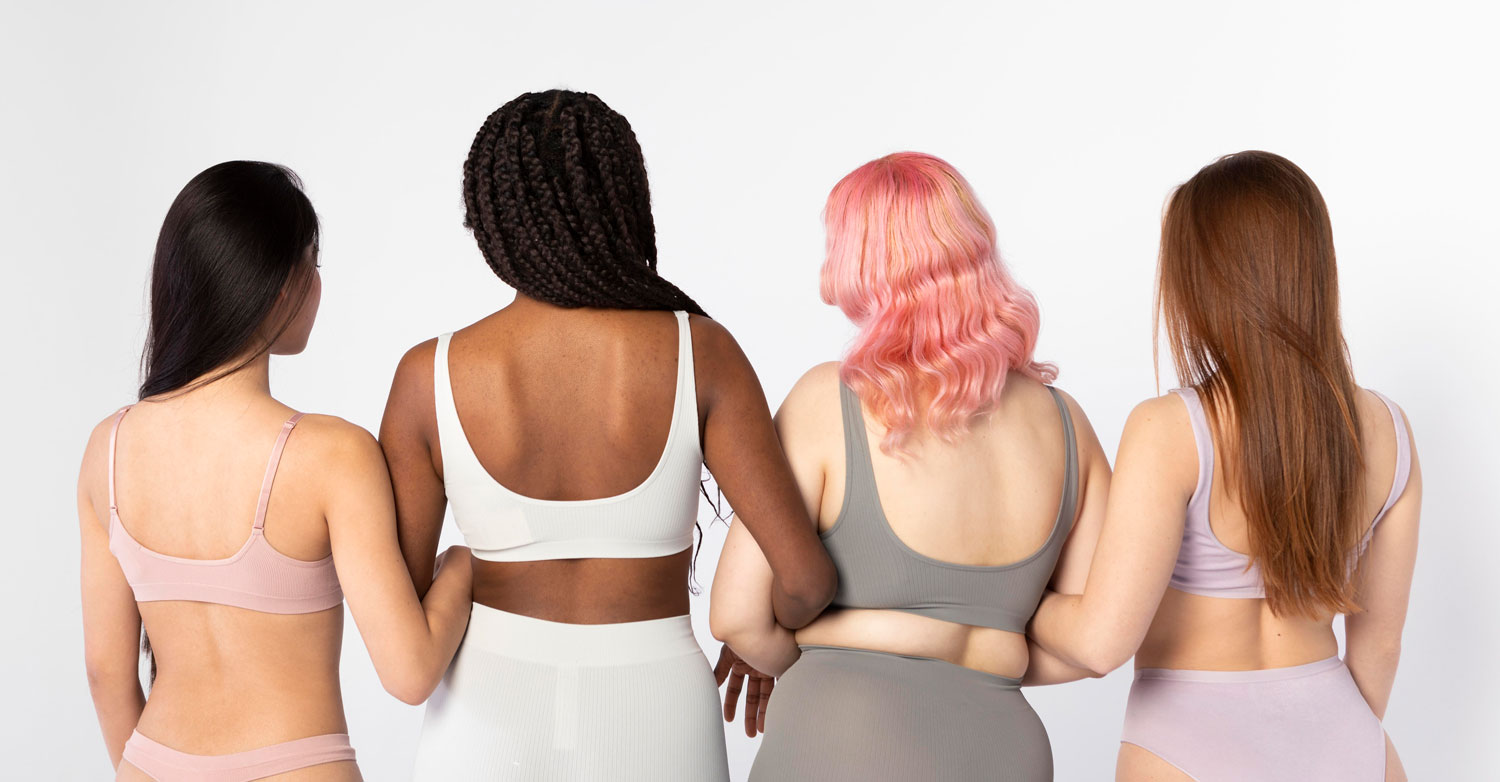
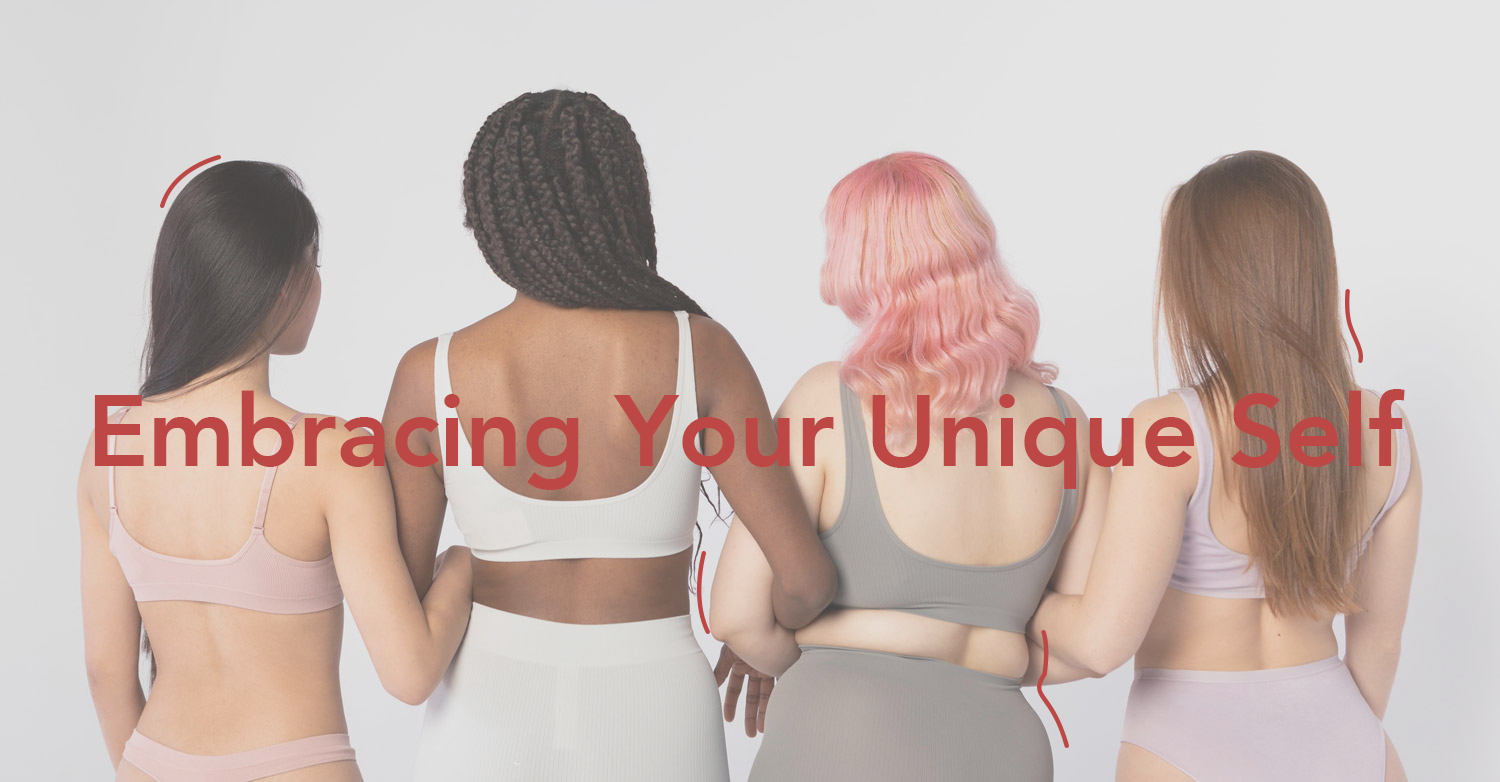
project06

Changed region(s): [[0.0613, 0.0921, 0.9507, 1.0], [0.0613, 0.7366, 0.1227, 0.9514]]

diff --git a/project/project06/explore.html b/project/project06/explore.html
@@ -1,0 +1,36 @@
+<!DOCTYPE html>
+<html lang="en">
+<head>
+    <meta charset="UTF-8">
+    <meta http-equiv="X-UA-Compatible" content="IE=edge">
+    <meta name="viewport" content="width=device-width, initial-scale=1.0">
+    <title>Embracing Your Unique Self</title>
+    <link rel="stylesheet" href="../project06/fat-style.css">
+</head>
+<body>
+    <nav>
+        <div><a href="discover.html">Discover</a></div>
+        <div><a href="explore.html">Explore</a></div>
+        <div><a href="unleash.html">Unleash</a></div>
+    </nav>
+
+    <main>
+        <h1 id="Reality">The Reality of Beauty and Health</h1>
+        <img src="../images/resize-pexels-shvets-production-6975486.jpg" alt="reality">
+        <p>1Lorem, ipsum dolor sit amet consectetur adipisicing elit. Sint laudantium sapiente dolor quia culpa quaerat reiciendis. Necessitatibus quasi soluta libero consectetur quas temporibus eos deserunt quos. Consequuntur in sint ipsam! Lorem ipsum dolor sit amet consectetur, adipisicing elit. Ad nesciunt dolor eum tenetur culpa eveniet illum libero? Architecto similique, dolore a, temporibus molestias officia quod quos magni velit quis inventore. Lorem ipsum dolor sit amet consectetur adipisicing elit. Magni aperiam, beatae, at totam, in eaque dicta facilis fugit reiciendis non cum similique sed tempore ex cupiditate ad suscipit? Nihil, voluptatum! Lorem ipsum dolor sit amet consectetur adipisicing elit. Sunt fuga praesentium, vero nobis minima asperiores temporibus dolores soluta impedit incidunt culpa? Ipsum praesentium saepe dolor, in expedita placeat aspernatur dolorum. Lorem ipsum, dolor sit amet consectetur adipisicing elit. Sint vitae ut eaque facilis consequatur debitis illum repellendus nostrum rem corrupti culpa fugit fugiat saepe minus iure deleniti, officia vel consequuntur. Lorem ipsum dolor sit amet consectetur adipisicing elit. Sequi porro asperiores ipsum saepe deserunt, quis hic ullam tenetur. Voluptatibus dignissimos minus et dicta adipisci esse expedita aliquam deleniti iusto explicabo? Lorem ipsum dolor sit amet consectetur adipisicing elit. Reprehenderit voluptates saepe odit excepturi et quaerat itaque quisquam, culpa blanditiis nulla perspiciatis quos assumenda vero porro repudiandae qui, eos deserunt! Officia.</p>
+
+        <h1 id="Embracing">Embracing Your Flaws and Imperfections</h1>
+        <img src="../images/resize-pexels-armin-rimoldi-5304810.jpg" alt="imperfections">
+        <p>2Lorem ipsum dolor, sit amet consectetur adipisicing elit. Aspernatur, perferendis dicta ipsam commodi iusto, vero quia facere ex neque esse rerum maiores adipisci impedit odio autem corrupti, ratione eaque vitae! Lorem, ipsum dolor sit amet consectetur adipisicing elit. Dolorem expedita ipsam, reprehenderit doloribus nisi fugiat aspernatur eligendi placeat reiciendis vitae provident modi aperiam facere ex. Aperiam dolor ut quo aliquam. Lorem, ipsum dolor sit amet consectetur adipisicing elit. Ea consequuntur repellat perferendis explicabo incidunt voluptates ratione aliquam eveniet autem necessitatibus fuga unde laborum possimus, eaque neque culpa eius ad vero? Lorem ipsum dolor sit amet, consectetur adipisicing elit. Corrupti, commodi. Modi, fuga magnam ullam tempora deserunt nisi laboriosam maiores porro assumenda deleniti! Ad, facilis cumque! Iusto commodi consequuntur voluptate aliquam. Lorem ipsum dolor sit amet, consectetur adipisicing elit. Deleniti, et ratione modi voluptatum nisi alias perferendis recusandae accusantium natus quidem enim magnam eligendi quis suscipit, dolores excepturi, cupiditate exercitationem inventore? Lorem ipsum dolor sit, amet consectetur adipisicing elit. Eius excepturi iure, assumenda id voluptas distinctio aspernatur natus rem, nesciunt dolore quos esse voluptates corporis sit nobis atque provident quo! Ratione. Lorem ipsum, dolor sit amet consectetur adipisicing elit. Deleniti nobis vitae, error porro laudantium consequatur! Possimus architecto explicabo voluptate exercitationem a, expedita, ipsam, numquam quia maxime alias dicta. Earum, dignissimos.</p>
+
+        <h1 id="Redefining">Redefining beauty on your own terms</h1>
+        <img src="../images/resize-medium-shot-smiley-women-posing-together.jpg" alt="redefine">
+        <p>3Lorem ipsum dolor sit amet consectetur adipisicing elit. Mollitia cupiditate id ratione animi nostrum aspernatur? Iusto, eum dolorum veritatis qui praesentium ad voluptatibus dolore dolores quam quasi cum consequatur libero? Lorem ipsum dolor sit, amet consectetur adipisicing elit. Facere necessitatibus ab ducimus est esse, officia cumque obcaecati odit quam pariatur aperiam unde commodi quod amet nostrum, incidunt, vitae praesentium. Provident. Lorem ipsum dolor sit amet consectetur adipisicing elit. Quia officiis, iure nisi aspernatur beatae laborum fuga mollitia dignissimos modi! Vitae necessitatibus, quo praesentium dolorem ex enim quibusdam labore commodi illum! Lorem ipsum dolor sit amet consectetur adipisicing elit. Dolorem nam nihil similique deleniti labore recusandae delectus, soluta iusto ipsa fugit pariatur quaerat, ratione non numquam earum commodi assumenda illo. Vel? Lorem ipsum, dolor sit amet consectetur adipisicing elit. Deleniti ipsam aperiam laboriosam commodi explicabo illo harum odio perferendis numquam laudantium voluptatum, deserunt beatae, fugit debitis minima adipisci unde rem? At? Lorem ipsum dolor sit amet consectetur, adipisicing elit. Excepturi officia porro minus, temporibus nostrum tempore accusantium. Accusantium, veniam architecto minima, est nostrum iusto sit, distinctio tempore atque doloremque eum fugiat.</p>
+    </main>
+
+    <footer>
+        <hr>
+        &copy;2023
+    </footer>
+</body>
+</html>

diff --git a/project/project06/discover.html b/project/project06/discover.html
@@ -1,0 +1,82 @@
+<!DOCTYPE html>
+<html lang="en">
+<head>
+    <meta charset="UTF-8">
+    <meta http-equiv="X-UA-Compatible" content="IE=edge">
+    <meta name="viewport" content="width=device-width, initial-scale=1.0">
+    <title>Embracing Your Unique Self</title>
+    <link rel="stylesheet" href="../project06/fat-style.css">
+    <style>
+        .banner {
+            max-width:100%;
+        }
+        .intro {
+            display: flex;
+            margin: 0 20px;
+            font-size: 1.1em;
+            justify-content: center;
+        }
+        .topics {
+            display:flex ;
+        }
+        div img {
+            max-width: 100%;
+        }
+        h2 {
+            font-size: 1.2em;
+        }
+        a {
+            text-decoration: none;
+        }
+        @media only screen and (max-width: 800px) {
+            nav a {
+                width: 100%;
+                display: block;
+            }
+        }
+    </style>
+</head>
+<body>
+    <nav>
+        <div><a href="discover.html">Discover</a></div>
+        <div><a href="explore.html">Explore</a></div>
+        <div><a href="unleash.html">Unleash</a></div>
+    </nav>
+
+    <header>
+        <img src="../images/resize-different-women-showing-different-types-beauty.jpg" alt="different-women-showing-different-types-beauty" class="banner">
+    </header>
+
+    <main>
+        
+        <div class="intro">
+            <p>Are you feeling the pressure to conform to social norms and expectations? Embracing Your Unique Self can help you celebrate your authenticity and find your true purpose in life. Explore our website for resources, tips, and inspiration to break free from societal pressures and embrace your uniqueness. Join us in the movement towards self-discovery and self-love. Embrace Your Unique Self today.</p>
+        </div>
+
+        <div class="topics">
+            <div class="no1">
+                <a href="explore.html#Reality"><h2>The Reality of Beauty and Health</h2></a>
+                <a href="explore.html#Reality"><img src="../images/resize-pexels-shvets-production-6975474.jpg" alt="weight"></a>
+                <a href="explore.html#Reality"><p>Beauty and health are integral and essential aspects of our lives, and the pressure to conform to societal standards can be overwhelming. However, the reality of beauty and health is about finding a balance that works for you, which requires prioritizing sustainable and realistic practices that embrace your unique beauty. By doing so, you can cultivate a positive and healthy relationship with your body, which will allow you to enjoy a fulfilling life. If you're ready to explore the reality of beauty and health, we invite you to click here to learn more about this important and relevant topic.</p></a>
+            </div>
+
+            <div class="no2">
+                <a href="explore.html#Embracing"><h2>Embracing Your Flaws and Imperfections</h2></a>
+                <a href="explore.html#Embracing"><img src="../images/resize-three-women-posing-together-body-shapers.jpg" alt="embracing"></a>
+                <a href="explore.html#Embracing"><p>Are you tired of striving for perfection and feeling like you don't measure up? Embracing Your Flaws and Imperfections is about celebrating your unique qualities and accepting yourself just as you are. By doing so, you can cultivate self-love, self-acceptance, and self-confidence. Click here to explore our website for resources, tips, and inspiration to help you on your journey towards embracing your flaws and imperfections. Join us in the movement towards a more positive and empowering relationship with ourselves. Embrace Your Flaws and Imperfections today!</p></a>
+            </div>
+            
+            <div class="no3">
+                <a href="explore.html#Redefining"><h2>Redefining beauty on your own terms</h2></a>
+                <a href="explore.html#Redefining"><img src="../images/resize-three-women-holding-placards-with-body-positivity-statements.jpg" alt="redefine"></a>
+                <a href="explore.html#Redefining"><p>Are you tired of feeling like you don't measure up to society's beauty standards? Redefining Beauty on Your Own Terms is about embracing your unique qualities and defining beauty for yourself. This perspective will help you to create a more positive and empowering relationship with yourself. Click here to explore our website for resources, tips, and inspiration to help you on your journey towards a more diverse and inclusive definition of beauty. Join us in the movement towards a more positive and empowering relationship with ourselves. Redefine Beauty on Your Own Terms today!</p></a>
+            </div>
+        </div>
+    </main>
+
+    <footer>
+        <hr>
+        &copy;2023
+    </footer>
+</body>
+</html>

diff --git a/project/project06/unleash.html b/project/project06/unleash.html
@@ -1,0 +1,61 @@
+<!DOCTYPE html>
+<html lang="en">
+<head>
+    <meta charset="UTF-8">
+    <meta http-equiv="X-UA-Compatible" content="IE=edge">
+    <meta name="viewport" content="width=device-width, initial-scale=1.0">
+    <title>Embracing Your Unique Self</title>
+    <link rel="stylesheet" href="../project06/fat-style.css">
+</head>
+<body>
+    <nav>
+        <div><a href="discover.html">Discover</a></div>
+        <div><a href="explore.html">Explore</a></div>
+        <div><a href="unleash.html">Unleash</a></div>
+    </nav>
+
+    <main>
+        <h1>Don't Define by Labels</h1>
+        <p>introduction about the video "Don't Define by Labels". Lorem ipsum dolor sit amet, consectetur adipisicing elit. Dolorem architecto doloribus fugiat, vero ipsa dignissimos consequuntur voluptate iusto quod voluptas debitis laboriosam! Expedita numquam eum nemo reiciendis fugit voluptatibus eligendi! Lorem, ipsum dolor sit amet consectetur adipisicing elit. Id molestiae debitis fugit dignissimos, incidunt placeat perspiciatis possimus deleniti numquam animi. Nesciunt odit non tenetur molestiae est ad vel inventore magnam? Lorem ipsum dolor sit amet consectetur adipisicing elit. Iusto, ut delectus? Consectetur, dolorum harum? Labore odio quam repudiandae quis. Tempora reprehenderit ex quia repellendus, harum atque! Omnis vero dolor laudantium.</p>
+        <video width="820" autoplay>
+            <source src="../images/productionID_5041705.mp4" type="video/mp4">
+        </video>
+
+        <form action="https://formspree.io/f/mqkopqnl" method="post">
+            <label for="name">Name:</label>
+            <input type="text" id="name" name="Name">
+
+            <label for="email">Email:</label>
+            <input type="text" id="email" name="Email">
+            <br>
+
+            <label for="share">Share your Story:</label><br>
+            <textarea id="share" name="Share your story" rows="10" cols="80"></textarea>
+            <br>
+
+            <input type="submit" value="submit">
+        </form>
+
+            <h2>Comments</h2>
+            <p>comment 1: Lorem ipsum, dolor sit amet consectetur adipisicing elit. Eligendi aut sunt dolore, praesentium pariatur quasi odio consequatur provident. Soluta nulla nisi nostrum vitae porro inventore iure laborum ullam accusamus. Porro?</p>
+            <p>comment 2: Lorem ipsum, dolor sit amet consectetur adipisicing elit. Eligendi aut sunt dolore, praesentium pariatur quasi odio consequatur provident. Soluta nulla nisi nostrum vitae porro inventore iure laborum ullam accusamus. Porro?</p>
+            <p>comment 3: Lorem ipsum, dolor sit amet consectetur adipisicing elit. Eligendi aut sunt dolore, praesentium pariatur quasi odio consequatur provident. Soluta nulla nisi nostrum vitae porro inventore iure laborum ullam accusamus. Porro?</p>
+            <p>comment 4: Lorem ipsum, dolor sit amet consectetur adipisicing elit. Eligendi aut sunt dolore, praesentium pariatur quasi odio consequatur provident. Soluta nulla nisi nostrum vitae porro inventore iure laborum ullam accusamus. Porro?</p>
+            <p>comment 5: Lorem ipsum, dolor sit amet consectetur adipisicing elit. Eligendi aut sunt dolore, praesentium pariatur quasi odio consequatur provident. Soluta nulla nisi nostrum vitae porro inventore iure laborum ullam accusamus. Porro?</p>
+            <p>comment 6: Lorem ipsum, dolor sit amet consectetur adipisicing elit. Eligendi aut sunt dolore, praesentium pariatur quasi odio consequatur provident. Soluta nulla nisi nostrum vitae porro inventore iure laborum ullam accusamus. Porro?</p>
+        
+        <form action="https://formspree.io/f/mqkopqnl" method="post">
+            <label for="comments">Post your comments</label><br>
+            <textarea id="comments" name="Comments" rows="5" cols="50"></textarea>
+            <br>
+
+            <input type="submit" value="submit">
+        </form>
+    </main>
+
+    <footer>
+        <hr>
+        &copy;2023
+    </footer>
+</body>
+</html>

diff --git a/project/project05/discover.html b/project/project05/discover.html
@@ -19,19 +19,20 @@
 
     <main>
         <h1>Embracing Your Unique Self</h1>
-        <p>Lorem ipsum dolor sit amet consectetur adipisicing elit. Distinctio, ut nobis recusandae veniam ullam, rerum quaerat voluptate earum temporibus quos facere quam reprehenderit ex, quisquam et molestias officia incidunt nostrum.</p>
+        <p>Are you feeling the pressure to conform to social norms and expectations? Embracing Your Unique Self can help you celebrate your authenticity and find your true purpose in life. Explore our website for resources, tips, and inspiration to break free from societal pressures and embrace your uniqueness. Join us in the movement towards self-discovery and self-love. Embrace Your Unique Self today.</p>
 
         <a href="explore.html#Reality" ><h2>The Reality of Beauty and Health</h2></a>
         <img src="../images/resize-pexels-shvets-production-6975474.jpg" alt="weight">
-        <p>Lorem, ipsum dolor sit amet consectetur adipisicing elit. Sint laudantium sapiente dolor quia culpa quaerat reiciendis. Necessitatibus quasi soluta libero consectetur quas temporibus eos deserunt quos. Consequuntur in sint ipsam!</p>
+        <p>Beauty and health are essential aspects of our lives, but the pressure to conform to societal standards can be overwhelming. The reality of beauty and health is about finding a balance that works for you, one that prioritizes sustainable and realistic practices that embrace your unique beauty. By doing so, you can cultivate a positive relationship with your body and enjoy a healthy and fulfilling life.
+        If you're ready to explore the reality of beauty and health, we invite you to click here to learn more about this important topic. </p>
 
         <a href="explore.html#Embracing"><h2>Embracing Your Flaws and Imperfections</h2></a>
         <img src="../images/resize-three-women-posing-together-body-shapers.jpg" alt="embracing">
-        <p>Lorem ipsum dolor, sit amet consectetur adipisicing elit. Aspernatur, perferendis dicta ipsam commodi iusto, vero quia facere ex neque esse rerum maiores adipisci impedit odio autem corrupti, ratione eaque vitae!</p>
+        <p>Are you tired of striving for perfection and feeling like you don't measure up? Embracing Your Flaws and Imperfections is about celebrating your unique qualities and accepting yourself just as you are. By doing so, you can cultivate self-love, self-acceptance, and self-confidence. Click here to explore our website for resources, tips, and inspiration to help you on your journey towards embracing your flaws and imperfections. Join us in the movement towards a more positive and empowering relationship with ourselves. Embrace Your Flaws and Imperfections today!</p>
 
         <a href="explore.html#Redefining"><h2>Redefining beauty on your own terms</h2></a>
         <img src="../images/resize-three-women-holding-placards-with-body-positivity-statements.jpg" alt="redefine">
-        <p>Lorem ipsum dolor sit amet consectetur adipisicing elit. Mollitia cupiditate id ratione animi nostrum aspernatur? Iusto, eum dolorum veritatis qui praesentium ad voluptatibus dolore dolores quam quasi cum consequatur libero?</p>
+        <p>Ready to break free from societal beauty standards and define beauty for yourself? Redefining Beauty on Your Own Terms is about embracing your unique qualities and cultivating a positive and empowering relationship with yourself. Click here to explore our website for resources, tips, and inspiration to help you on your journey towards redefining beauty on your own terms. Join us in the movement towards a more diverse and inclusive definition of beauty. Redefine Beauty on Your Own Terms today!</p>
     </main>
 
     <footer>

diff --git a/project/project06/fat-style.css b/project/project06/fat-style.css
@@ -1,0 +1,38 @@
+p{
+    color: #440909;
+}
+a {
+    color: #2e7099f8;
+}
+a:hover {
+    color: #bd4745; 
+} 
+h1, h2{
+    color: #c85c67;
+}
+nav {
+    background-color: #9e9e9e;
+    padding: 10px 10px 10px 10px;
+    margin-bottom: 30px;
+    font-size: 1.2em;
+    color: #ffffff;
+    display: flex;
+    justify-content: end;
+}
+nav div {
+    padding: 0 10px;
+}
+nav a {
+    color: #ffffff;
+    text-decoration: none;
+}
+.no1, .no2, .no3 {
+    display: flex;
+    flex-wrap: wrap;
+    flex: 1;
+    margin: 20px;
+    padding: 20px;
+    background-color: #f3f3f3b0;
+    border-radius: 10px;
+    justify-content: center;
+}

diff --git a/lecturenotes/unit10notes.html b/lecturenotes/unit10notes.html
@@ -28,7 +28,7 @@
             .box1, .box2, .box3 {
                 flex: 1;
             }
-            /* #3 flex wrapping so columns diaplay on nect line
+            /* #3 flex wrapping so columns diaplay on next line
                 don't forget to size columns */
             @media only screen and (max-width: 800px) {
                 body {background-color: black; color: white;}
